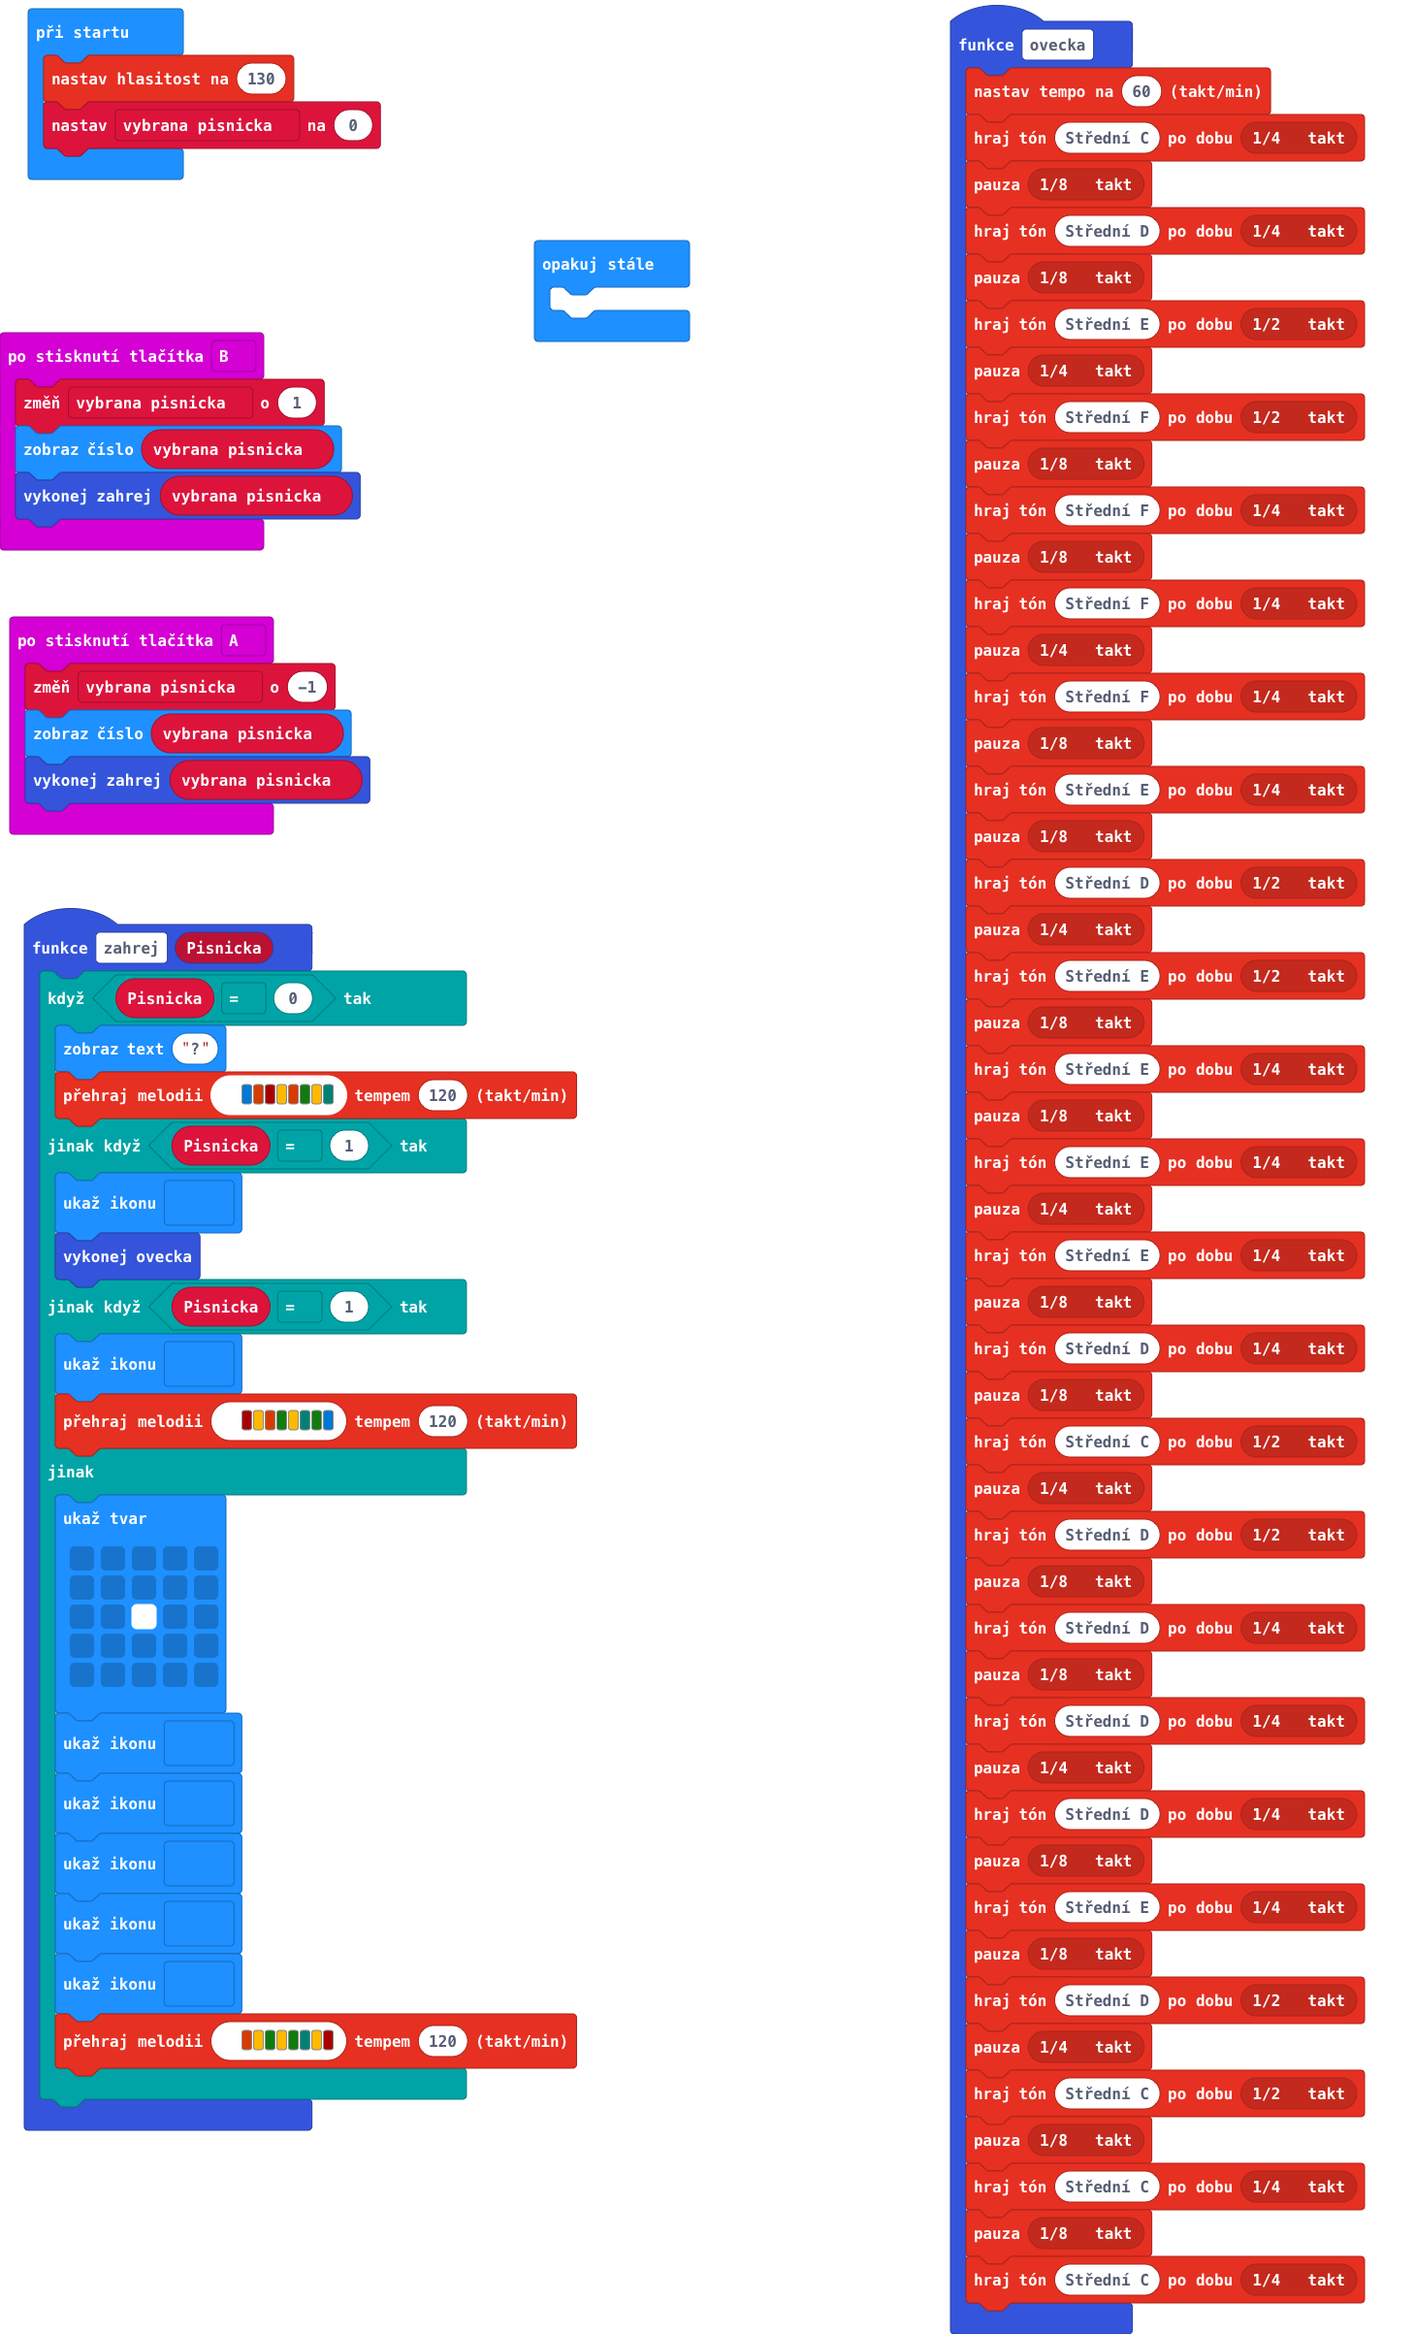
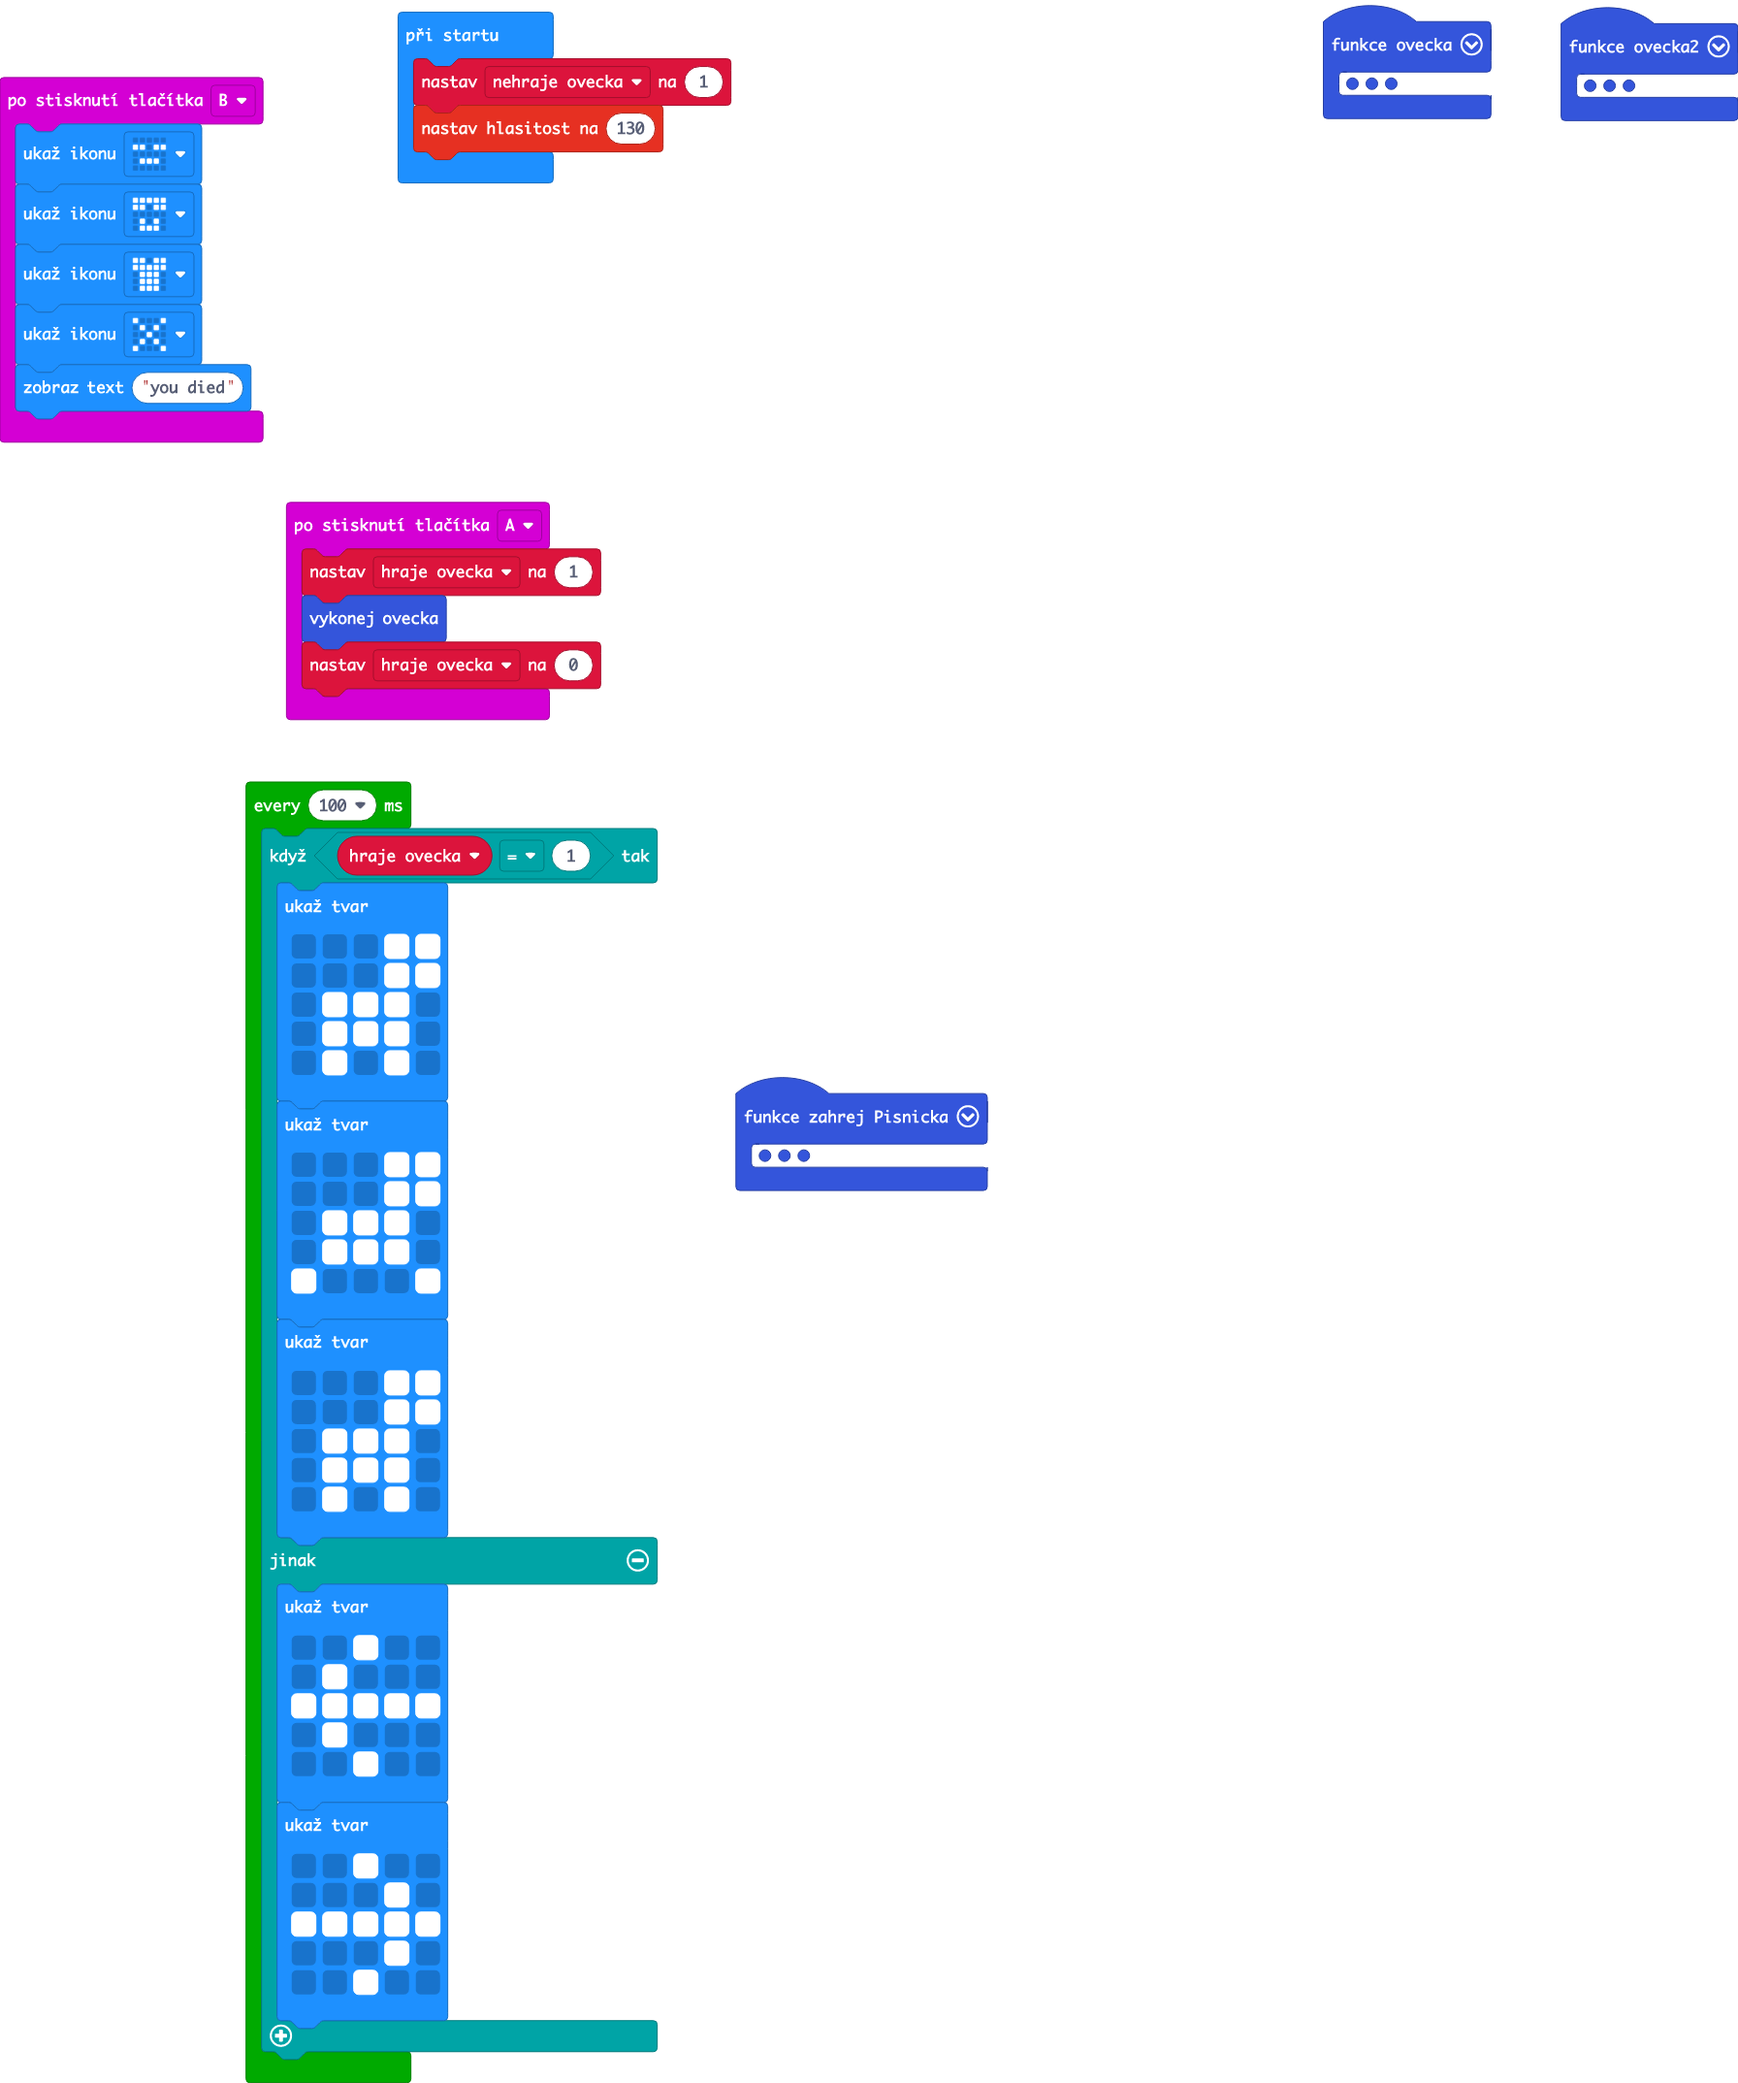
pridani napovedy a animace

diff --git a/main.ts b/main.ts
@@ -49,23 +49,74 @@ function ovecka () {
     music.playTone(262, music.beat(BeatFraction.Quarter))
 }
 input.onButtonPressed(Button.A, function () {
-    vybrana_pisnicka += -1
-    basic.showNumber(vybrana_pisnicka)
-    zahrej(vybrana_pisnicka)
+    hraje_ovecka = 1
+    ovecka()
+    hraje_ovecka = 0
 })
+function ovecka2 () {
+    music.setTempo(60)
+    music.playTone(262, music.beat(BeatFraction.Quarter))
+    music.rest(music.beat(BeatFraction.Eighth))
+    music.playTone(294, music.beat(BeatFraction.Quarter))
+    music.rest(music.beat(BeatFraction.Eighth))
+    music.playTone(330, music.beat(BeatFraction.Half))
+    music.rest(music.beat(BeatFraction.Quarter))
+    music.playTone(349, music.beat(BeatFraction.Half))
+    music.rest(music.beat(BeatFraction.Eighth))
+    music.playTone(349, music.beat(BeatFraction.Quarter))
+    music.rest(music.beat(BeatFraction.Eighth))
+    music.playTone(349, music.beat(BeatFraction.Quarter))
+    music.rest(music.beat(BeatFraction.Quarter))
+    music.playTone(349, music.beat(BeatFraction.Quarter))
+    music.rest(music.beat(BeatFraction.Eighth))
+    music.playTone(330, music.beat(BeatFraction.Quarter))
+    music.rest(music.beat(BeatFraction.Eighth))
+    music.playTone(294, music.beat(BeatFraction.Half))
+    music.rest(music.beat(BeatFraction.Quarter))
+    music.playTone(330, music.beat(BeatFraction.Half))
+    music.rest(music.beat(BeatFraction.Eighth))
+    music.playTone(330, music.beat(BeatFraction.Quarter))
+    music.rest(music.beat(BeatFraction.Eighth))
+    music.playTone(330, music.beat(BeatFraction.Quarter))
+    music.rest(music.beat(BeatFraction.Quarter))
+    music.playTone(330, music.beat(BeatFraction.Quarter))
+    music.rest(music.beat(BeatFraction.Eighth))
+    music.playTone(294, music.beat(BeatFraction.Quarter))
+    music.rest(music.beat(BeatFraction.Eighth))
+    music.playTone(262, music.beat(BeatFraction.Half))
+    music.rest(music.beat(BeatFraction.Quarter))
+    music.playTone(294, music.beat(BeatFraction.Half))
+    music.rest(music.beat(BeatFraction.Eighth))
+    music.playTone(294, music.beat(BeatFraction.Quarter))
+    music.rest(music.beat(BeatFraction.Eighth))
+    music.playTone(294, music.beat(BeatFraction.Quarter))
+    music.rest(music.beat(BeatFraction.Quarter))
+    music.playTone(294, music.beat(BeatFraction.Quarter))
+    music.rest(music.beat(BeatFraction.Eighth))
+    music.playTone(330, music.beat(BeatFraction.Quarter))
+    music.rest(music.beat(BeatFraction.Eighth))
+    music.playTone(294, music.beat(BeatFraction.Half))
+    music.rest(music.beat(BeatFraction.Quarter))
+    music.playTone(262, music.beat(BeatFraction.Half))
+    music.rest(music.beat(BeatFraction.Eighth))
+    music.playTone(262, music.beat(BeatFraction.Quarter))
+    music.rest(music.beat(BeatFraction.Eighth))
+    music.playTone(262, music.beat(BeatFraction.Quarter))
+}
 input.onButtonPressed(Button.B, function () {
-    vybrana_pisnicka += 1
-    basic.showNumber(vybrana_pisnicka)
-    zahrej(vybrana_pisnicka)
+    basic.showIcon(IconNames.Asleep)
+    basic.showIcon(IconNames.Fabulous)
+    basic.showIcon(IconNames.TShirt)
+    basic.showIcon(IconNames.No)
+    basic.showString("you died")
 })
 function zahrej (Pisnicka: number) {
     if (Pisnicka == 0) {
         basic.showString("?")
         music.playMelody("E B C5 A B G A F ", 120)
-    } else if (Pisnicka == 1) {
-        basic.showIcon(IconNames.Heart)
-        ovecka()
-    } else if (Pisnicka == 1) {
+    } else if (Pisnicka == 0) {
+        basic.showIcon(IconNames.Yes)
+    } else if (Pisnicka == 0) {
         basic.showIcon(IconNames.SmallSquare)
         music.playMelody("C5 A B G A F G E ", 120)
     } else {
@@ -84,9 +135,46 @@ function zahrej (Pisnicka: number) {
         music.playMelody("B A G A G F A C5 ", 120)
     }
 }
-let vybrana_pisnicka = 0
+let hraje_ovecka = 0
+let nehraje_ovecka = 1
 music.setVolume(130)
-vybrana_pisnicka = 0
-basic.forever(function () {
-	
+loops.everyInterval(100, function () {
+    if (hraje_ovecka == 1) {
+        basic.showLeds(`
+            . . . # #
+            . . . # #
+            . # # # .
+            . # # # .
+            . # . # .
+            `)
+        basic.showLeds(`
+            . . . # #
+            . . . # #
+            . # # # .
+            . # # # .
+            # . . . #
+            `)
+        basic.showLeds(`
+            . . . # #
+            . . . # #
+            . # # # .
+            . # # # .
+            . # . # .
+            `)
+    } else {
+        basic.showLeds(`
+            . . # . .
+            . # . . .
+            # # # # #
+            . # . . .
+            . . # . .
+            `)
+        basic.showLeds(`
+            . . # . .
+            . . . # .
+            # # # # #
+            . . . # .
+            . . # . .
+            `)
+    }
 })
